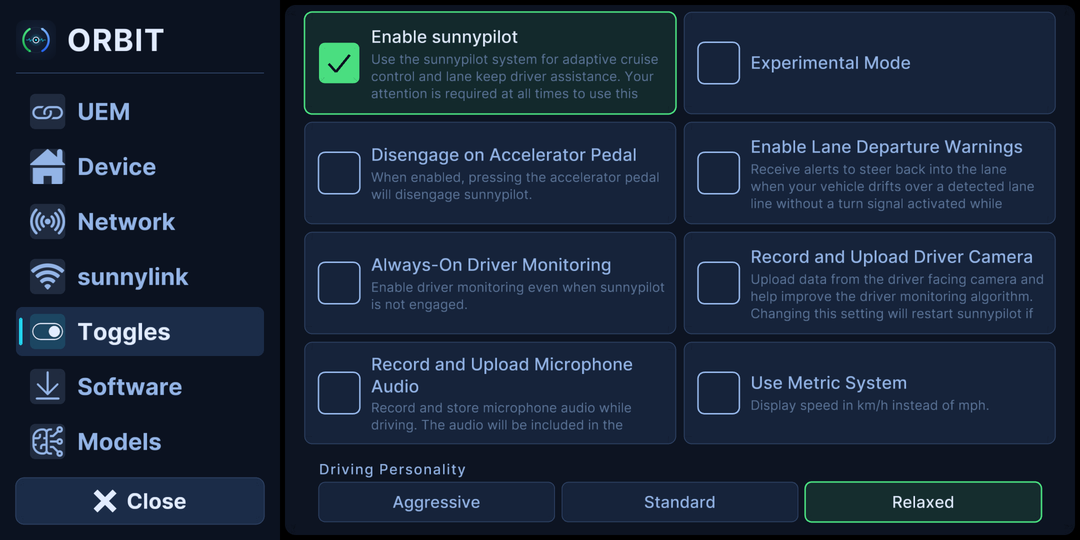
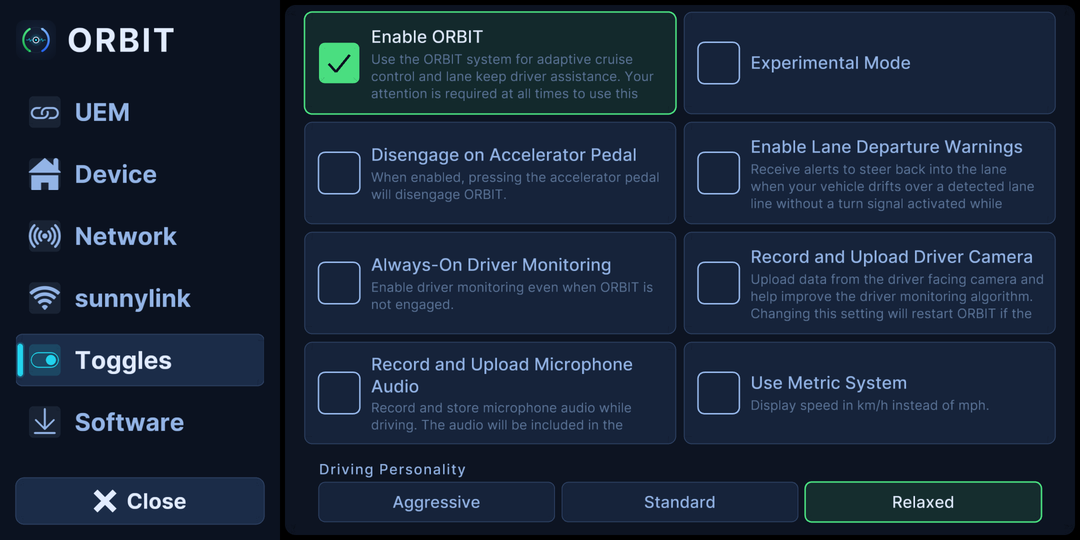
ui(settings): rail fiel al mockup — icono/chip cian en pestaña activa, marcador cian a ras, mas separacion entre tiles
- Icono de la pestaña seleccionada en cian #22D3EE (antes ink), chip tintado cian .16 / muted .10
- Barra marcadora cian mas gruesa (11px) a ras del borde izq con halo, tile con borde hairline
- Tiles mas altos (124px) con inset 11 -> hueco claro entre opciones; sin linea separadora bajo la marca

diff --git a/selfdrive/ui/sunnypilot/layouts/settings/settings.py b/selfdrive/ui/sunnypilot/layouts/settings/settings.py
@@ -36,7 +36,8 @@ from openpilot.system.ui.widgets.scroller_tici import Scroller
 # from openpilot.selfdrive.ui.sunnypilot.layouts.settings.navigation import NavigationLayout
 
 OP.PANEL_COLOR = rl.Color(13, 20, 34, 255)   # ORBIT dark ground (was near-black)
-ICON_SIZE = 70
+ICON_SIZE = 64
+NAV_TILE_INSET = 11          # vertical inset per allocated row → visible gap between tiles
 
 OP.PanelType = IntEnum(
   "PanelType",
@@ -70,31 +71,40 @@ class NavButton(Widget):
     self.panel_info = p_info
 
   def _render(self, rect):
-    # Mockup "menu tile": full-width target, icon chip on the left, ORBIT panel
-    # background + cyan marker bar when selected, ink/muted label.
+    # Mockup "menu tile" (artifact 5212ff09, screen 02): full-width target, icon
+    # chip on the left, ORBIT panel background + hairline border + cyan marker bar
+    # and cyan icon/label when selected; muted chip + muted label when not.
     is_selected = self.panel_type == self.parent._current_panel
     mouse_down = rl.is_mouse_button_down(rl.MouseButton.MOUSE_BUTTON_LEFT)
     hovered = rl.check_collision_point_rec(rl.get_mouse_position(), rect)
 
-    tile = rl.Rectangle(rect.x, rect.y + 6, rect.width, rect.height - 12)
+    # Inset the visible tile so consecutive tiles read as clearly separated cards.
+    tile = rl.Rectangle(rect.x, rect.y + NAV_TILE_INSET, rect.width, rect.height - 2 * NAV_TILE_INSET)
     self.panel_info.button_rect = rect  # click detection maps to the allocated rect
 
     if is_selected:
-      rl.draw_rectangle_rounded(tile, 0.26, 12, OP.ORBIT_PANEL)
-      bar = rl.Rectangle(tile.x + 6, tile.y + tile.height * 0.22, 7, tile.height * 0.56)
+      rl.draw_rectangle_rounded(tile, 0.24, 12, OP.ORBIT_PANEL)
+      rl.draw_rectangle_rounded_lines_ex(tile, 0.24, 12, 2, OP.ORBIT_HAIRLINE)
+      # cyan marker bar, flush to the left edge, with a faint halo (glow proxy)
+      bar = rl.Rectangle(tile.x + 3, tile.y + tile.height * 0.18, 11, tile.height * 0.64)
+      halo = rl.Rectangle(bar.x - 3, bar.y - 3, bar.width + 6, bar.height + 6)
+      rl.draw_rectangle_rounded(halo, 1.0, 8, rl.Color(OP.ORBIT_CYAN.r, OP.ORBIT_CYAN.g, OP.ORBIT_CYAN.b, 55))
       rl.draw_rectangle_rounded(bar, 1.0, 8, OP.ORBIT_CYAN)
     elif hovered and mouse_down:
-      rl.draw_rectangle_rounded(tile, 0.26, 12, OP.ORBIT_NAVY)
+      rl.draw_rectangle_rounded(tile, 0.24, 12, OP.ORBIT_NAVY)
 
-    # Icon chip
-    chip = tile.height * 0.72
-    chip_rect = rl.Rectangle(tile.x + 28, tile.y + (tile.height - chip) / 2, chip, chip)
-    accent = OP.ORBIT_CYAN if is_selected else OP.ORBIT_MUTED
-    rl.draw_rectangle_rounded(chip_rect, 0.3, 10, rl.Color(accent.r, accent.g, accent.b, 40))
+    # Icon chip: cyan-tinted when selected (rgba .16), muted-tinted otherwise (.10)
+    chip = tile.height * 0.62
+    chip_rect = rl.Rectangle(tile.x + 26, tile.y + (tile.height - chip) / 2, chip, chip)
+    if is_selected:
+      chip_bg = rl.Color(OP.ORBIT_CYAN.r, OP.ORBIT_CYAN.g, OP.ORBIT_CYAN.b, 41)
+    else:
+      chip_bg = rl.Color(OP.ORBIT_MUTED.r, OP.ORBIT_MUTED.g, OP.ORBIT_MUTED.b, 26)
+    rl.draw_rectangle_rounded(chip_rect, 0.28, 10, chip_bg)
 
     if self.panel_info.icon:
       icon_texture = gui_app.texture(self.panel_info.icon, ICON_SIZE, ICON_SIZE, keep_aspect_ratio=True)
-      tint = OP.ORBIT_INK if is_selected else OP.ORBIT_MUTED
+      tint = OP.ORBIT_CYAN if is_selected else OP.ORBIT_MUTED
       rl.draw_texture_ex(
         icon_texture,
         rl.Vector2(chip_rect.x + (chip - icon_texture.width) / 2, chip_rect.y + (chip - icon_texture.height) / 2),
@@ -103,10 +113,10 @@ class NavButton(Widget):
 
     # Label
     label = self.panel_info.name
-    lb_h = measure_text_cached(self.parent._font_bold, label, 46).y
+    lb_h = measure_text_cached(self.parent._font_bold, label, 48).y
     text_color = OP.ORBIT_INK if is_selected else OP.ORBIT_MUTED
     rl.draw_text_ex(self.parent._font_bold, label,
-                    rl.Vector2(chip_rect.x + chip + 24, rect.y + (rect.height - lb_h) / 2), 46, 0, text_color)
+                    rl.Vector2(chip_rect.x + chip + 28, rect.y + (rect.height - lb_h) / 2), 48, 0, text_color)
 
 
 class SettingsLayoutSP(OP.SettingsLayout):
@@ -156,13 +166,12 @@ class SettingsLayoutSP(OP.SettingsLayout):
         rl.Rectangle(logo_x, logo_y, OP.LOGO_SIZE, OP.LOGO_SIZE),
         rl.Vector2(0, 0), 0, rl.WHITE,
       )
-    wm_h = measure_text_cached(self._font_bold, "ORBIT", 60).y
+    wm_h = measure_text_cached(self._font_bold, "ORBIT", 64).y
     rl.draw_text_ex(self._font_bold, "ORBIT",
                     rl.Vector2(logo_x + OP.LOGO_SIZE + 22, logo_y + (OP.LOGO_SIZE - wm_h) / 2),
-                    60, 2, OP.ORBIT_INK)
-    sep_y = logo_y + OP.LOGO_SIZE + 26
-    rl.draw_line_ex(rl.Vector2(rect.x + OP.SB_PAD, sep_y),
-                    rl.Vector2(rect.x + rect.width - OP.SB_PAD, sep_y), 2, OP.ORBIT_HAIRLINE)
+                    64, 4, OP.ORBIT_INK)
+    # No hairline under the brand: the mockup separates brand from nav by spacing only.
+    sep_y = logo_y + OP.LOGO_SIZE + 20
 
     # --- Close button (bottom, full-width ORBIT style; reused from the base) ---
     close_top = rect.y + rect.height - OP.CLOSE_BTN_H - OP.CLOSE_BTN_MARGIN

diff --git a/selfdrive/ui/layouts/settings/settings.py b/selfdrive/ui/layouts/settings/settings.py
@@ -47,7 +47,7 @@ PANEL_COLOR = ORBIT_NAVY
 # still references these upstream names via `settings as OP`. The ORBIT rewrite
 # of this module dropped them; re-add them mapped to the ORBIT palette so the SP
 # sidebar renders in ORBIT colors instead of crashing on missing attributes.
-NAV_BTN_HEIGHT = 110
+NAV_BTN_HEIGHT = 124
 CLOSE_BTN_COLOR = ORBIT_PANEL
 CLOSE_BTN_PRESSED = ORBIT_HAIRLINE
 TEXT_NORMAL = ORBIT_MUTED
